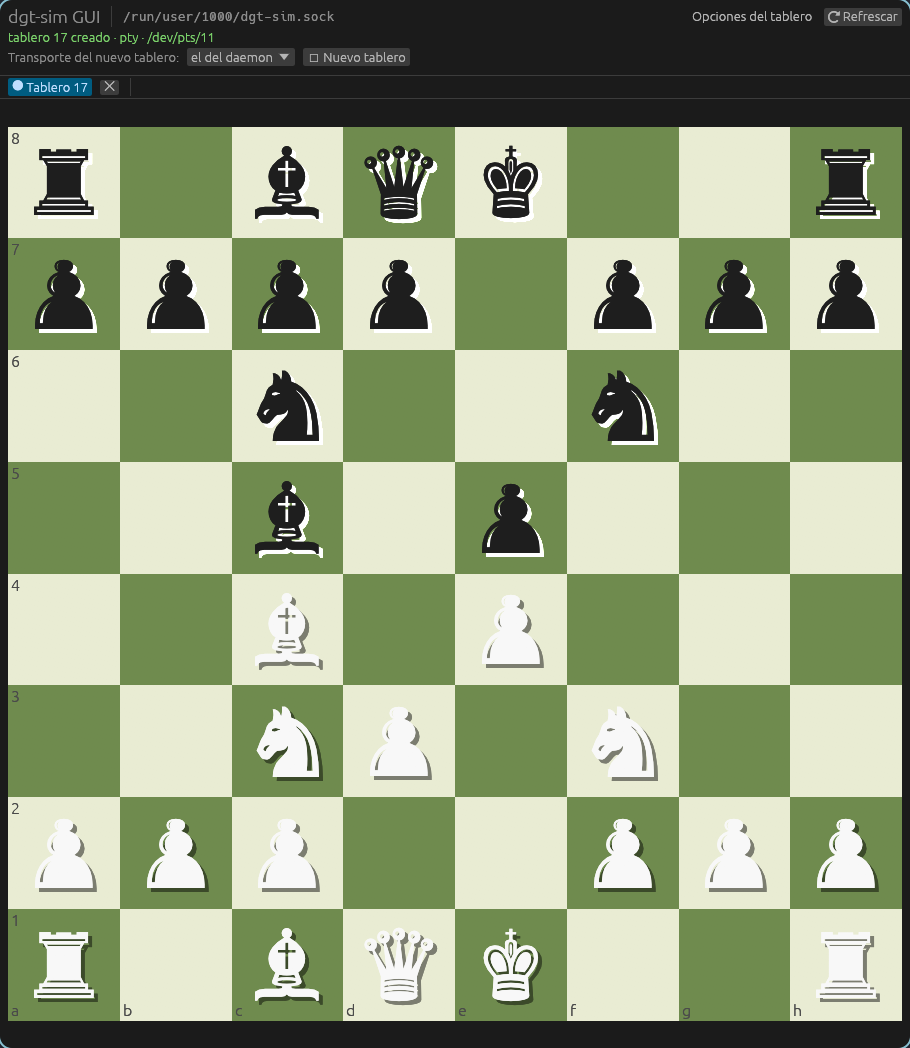
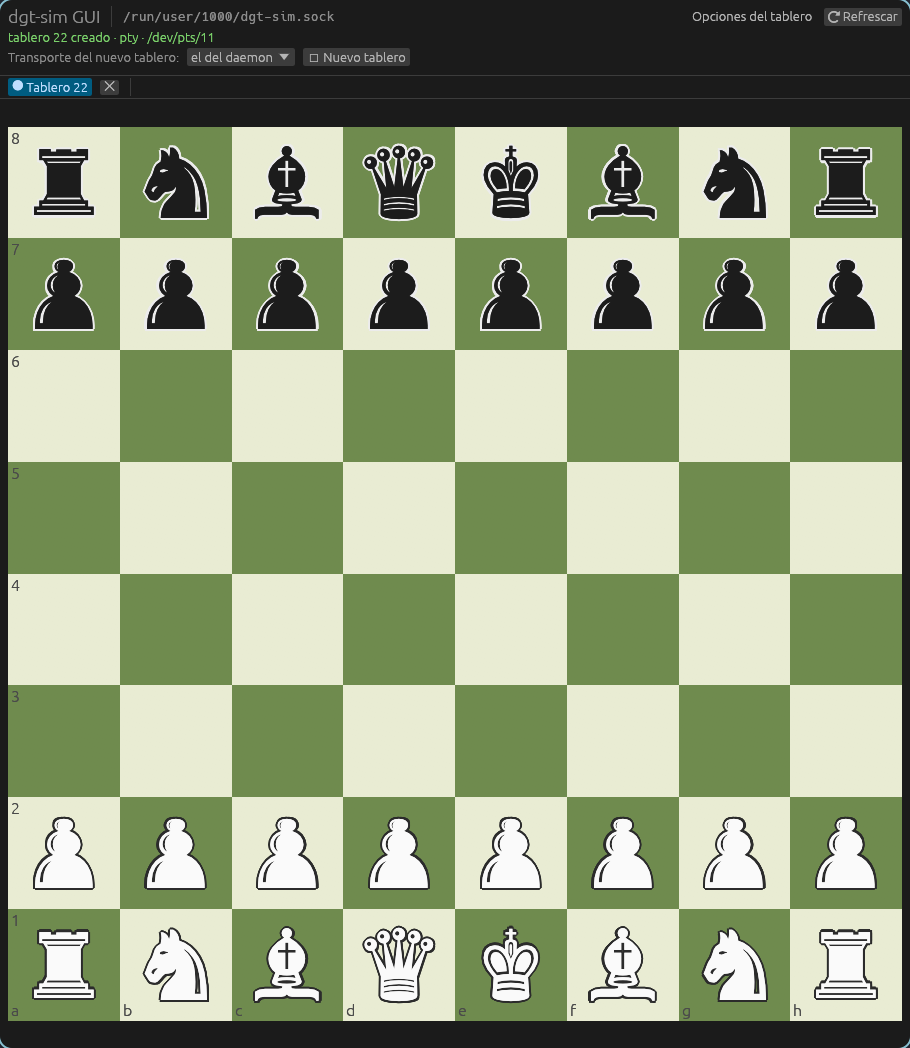
fix: give every piece a proper outline
The "outline" was a shadow offset to one corner, which did nothing to separate
a white piece from a light square. Stamp the glyph around a small circle in an
inverse-tone colour and draw the piece on top instead, so every piece gets an
even border. Because the outline is the inverse tone, it stands out against the
opposite square colour and melts into the matching one.

diff --git a/src/board_widget.rs b/src/board_widget.rs
@@ -206,7 +206,7 @@ pub fn show(
         cell * 0.5
     };
     let font = FontId::new(piece_size, piece_font.family.clone());
-    let shadow_offset = (cell * 0.035).max(1.0);
+    let outline_width = (cell * 0.02).clamp(1.0, 3.0);
     let dragged_from = drag.as_ref().map(|state| state.from);
     for (field, piece) in board.iter().enumerate() {
         let square = Square::from_field(field);
@@ -220,7 +220,7 @@ pub fn show(
                 piece,
                 &font,
                 piece_font.glyphs,
-                shadow_offset,
+                outline_width,
             );
         }
     }
@@ -233,7 +233,7 @@ pub fn show(
             state.piece,
             &font,
             piece_font.glyphs,
-            shadow_offset,
+            outline_width,
         );
     }
 
@@ -270,17 +270,21 @@ fn draw_coordinates(painter: &Painter, rect: Rect, cell: f32, flipped: bool) {
     }
 }
 
-/// Colours for a piece: the fill, and the offset "shadow" that keeps it
-/// readable on both square colours.
+/// Colours for a piece: the fill, plus an outline in the *inverse* tone.
+///
+/// The outline is what keeps a piece readable whatever square it stands on:
+/// a white piece's dark outline shows against the light squares and melts into
+/// the dark ones, and a black piece's light outline does the opposite. So each
+/// piece has an edge exactly where it needs one, and none where it does not.
 fn piece_colors(piece: Piece) -> (Color32, Color32) {
     match piece.color {
         Color::White => (
-            Color32::from_rgb(0xF8, 0xF8, 0xF8),
-            Color32::from_rgba_premultiplied(0, 0, 0, 120),
+            Color32::from_rgb(0xFA, 0xFA, 0xFA),
+            Color32::from_rgb(0x2B, 0x2B, 0x2B),
         ),
         Color::Black => (
-            Color32::from_rgb(0x1E, 0x1E, 0x1E),
-            Color32::from_rgba_premultiplied(255, 255, 255, 80),
+            Color32::from_rgb(0x1C, 0x1C, 0x1C),
+            Color32::from_rgb(0xEC, 0xEC, 0xEC),
         ),
     }
 }
@@ -291,21 +295,23 @@ fn piece_colors(piece: Piece) -> (Color32, Color32) {
 /// not on the font's line box. The line box carries ascent and descent that the
 /// glyph ink does not fill, so centring on it leaves every piece sitting a few
 /// pixels high; centring the ink puts it dead centre in the square.
+///
+/// `outline_width` is the thickness of the outline, in points; `0.0` disables it.
 pub fn paint_piece(
     painter: &Painter,
     center: Pos2,
     piece: Piece,
     font: &FontId,
     glyphs: bool,
-    shadow_offset: f32,
+    outline_width: f32,
 ) {
     let text = if glyphs {
         piece.glyph().to_string()
     } else {
         piece.letter().to_string()
     };
-    let (fill, shadow) = piece_colors(piece);
-    paint_glyph(painter, center, &text, font, fill, shadow, shadow_offset);
+    let (fill, outline) = piece_colors(piece);
+    paint_glyph(painter, center, &text, font, fill, outline, outline_width);
 }
 
 fn paint_glyph(
@@ -314,8 +320,8 @@ fn paint_glyph(
     text: &str,
     font: &FontId,
     fill: Color32,
-    shadow: Color32,
-    shadow_offset: f32,
+    outline: Color32,
+    outline_width: f32,
 ) {
     let galley = painter.layout_no_wrap(text.to_owned(), font.clone(), Color32::WHITE);
     let ink = galley.mesh_bounds;
@@ -325,8 +331,17 @@ fn paint_glyph(
         galley.rect
     };
     let pos = center - ink.center().to_vec2();
-    let offset = Vec2::splat(shadow_offset);
-    painter.galley_with_override_text_color(pos + offset, galley.clone(), shadow);
+    if outline_width > 0.0 {
+        // A uniform outline, cheaply: stamp the same glyph around a small
+        // circle in the outline colour, then draw the piece on top. The fill
+        // covers the inside; what is left is an even ring.
+        const STEPS: usize = 8;
+        for step in 0..STEPS {
+            let angle = std::f32::consts::TAU * (step as f32) / (STEPS as f32);
+            let offset = Vec2::new(angle.cos(), angle.sin()) * outline_width;
+            painter.galley_with_override_text_color(pos + offset, galley.clone(), outline);
+        }
+    }
     painter.galley_with_override_text_color(pos, galley, fill);
 }
 

diff --git a/src/app.rs b/src/app.rs
@@ -847,7 +847,7 @@ fn piece_button(
         piece,
         &font,
         piece_font.glyphs,
-        1.0,
+        1.2,
     );
     response
 }
